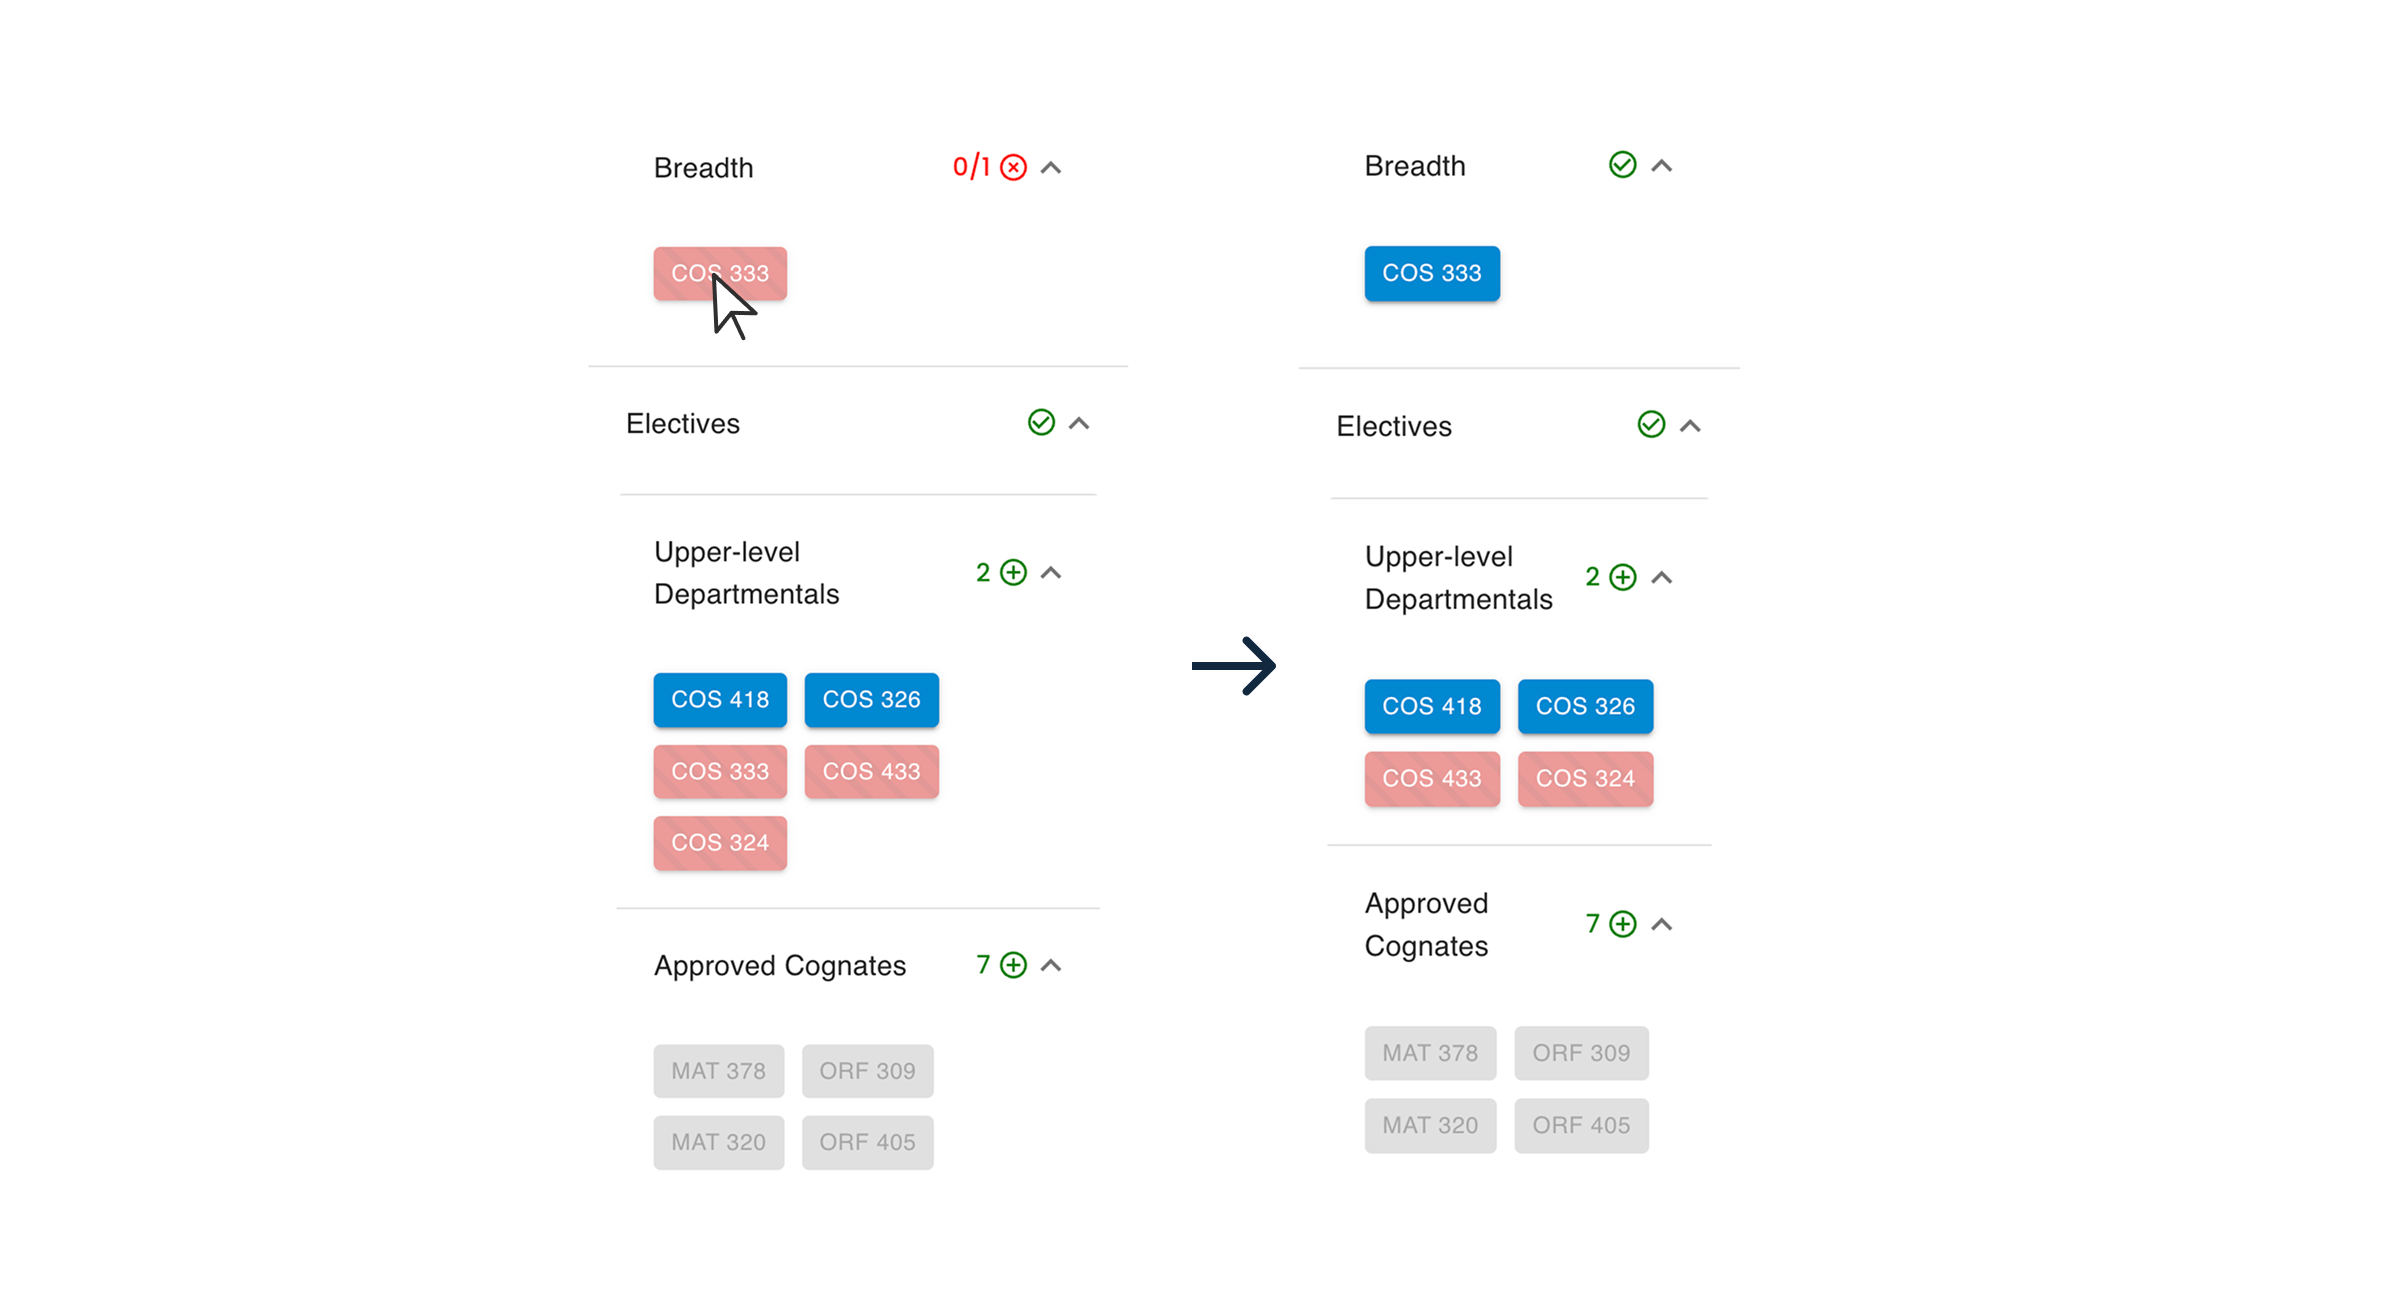
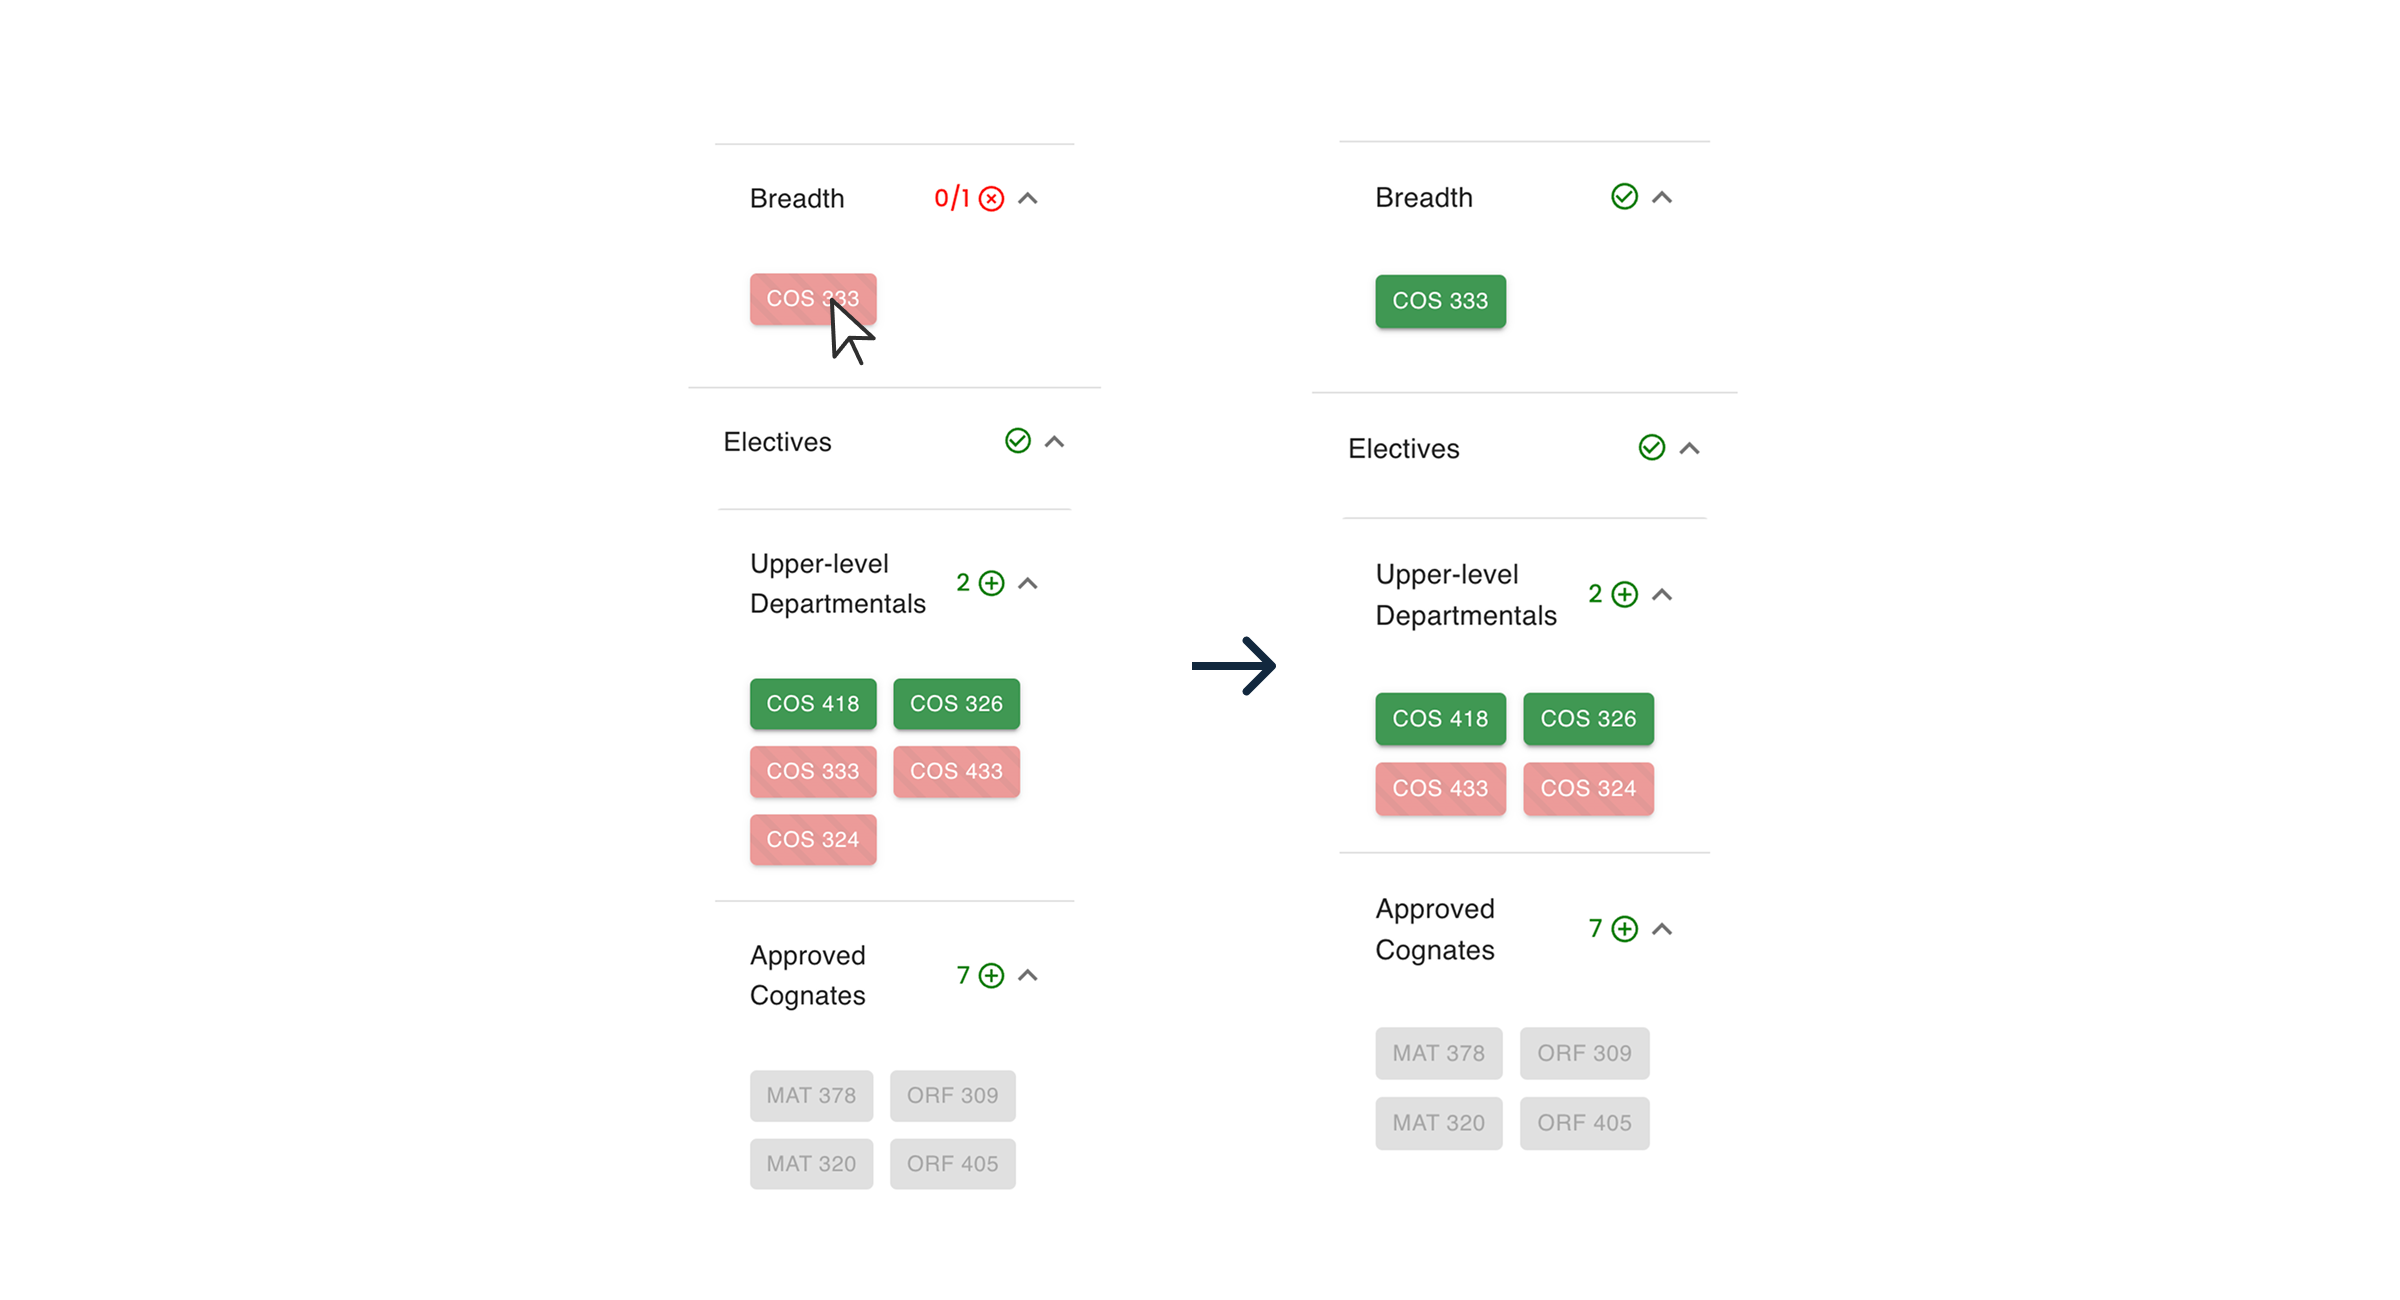
fixed tutorial

diff --git a/frontend/components/Tutorial/Tutorial.tsx b/frontend/components/Tutorial/Tutorial.tsx
@@ -1,8 +1,12 @@
 'use client';
 
-import { useState } from 'react';
+import { useState, useEffect } from 'react';
+
+import { usePathname } from 'next/navigation';
 
 import { Tutorial } from '@/components/Tutorial/TutorialModal';
+import useUserSlice from '@/store/userSlice';
+import { fetchCsrfToken } from '@/utils/csrf';
 
 /**
  * Custom hook that manages the state and logic for the tutorial modal.
@@ -23,6 +27,45 @@ import { Tutorial } from '@/components/Tutorial/TutorialModal';
 export function useTutorialModal() {
 	const [isModalOpen, setIsModalOpen] = useState(false);
 	const [tutorialType, setTutorialType] = useState<string>('dashboard');
+	const profile = useUserSlice((state) => state.profile);
+	const pathname = usePathname();
+
+	const [csrfToken, setCsrfToken] = useState('');
+	useEffect(() => {
+		void (async () => {
+			const token = await fetchCsrfToken();
+			setCsrfToken(token);
+		})();
+	}, []);
+
+	useEffect(() => {
+		if (pathname !== '/dashboard') {
+			return;
+		}
+
+		if (!profile || !profile.netId) {
+			return;
+		}
+
+		async function fetchTutorialStatus() {
+			try {
+				const response = await fetch(`${process.env.BACKEND}/tutorial/get-status/`, {
+					method: 'GET',
+					credentials: 'include',
+					headers: {
+						'X-NetId': profile.netId,
+					},
+				});
+				const data = await response.json();
+				if (data.hasSeenTutorial === false) {
+					setIsModalOpen(true);
+				}
+			} catch (error) {
+				console.error('Error fetching tutorial status:', error);
+			}
+		}
+		void fetchTutorialStatus();
+	}, [profile, pathname]);
 
 	/**
 	 * Opens the tutorial modal with the specified tutorial type.
@@ -34,12 +77,25 @@ export function useTutorialModal() {
 		setIsModalOpen(true);
 	};
 
+	const finishTutorial = async () => {
+		try {
+			await fetch(`${process.env.BACKEND}/tutorial/set-status/`, {
+				method: 'POST',
+				credentials: 'include',
+				headers: {
+					'Content-Type': 'application/json',
+					'X-NetId': profile.netId,
+					'X-CSRFToken': csrfToken,
+				},
+			});
+			setIsModalOpen(false);
+		} catch (error) {
+			console.error('Error updating tutorial status:', error);
+		}
+	};
+
 	const tutorialModal = isModalOpen ? (
-		<Tutorial
-			isOpen={isModalOpen}
-			onClose={() => setIsModalOpen(false)}
-			tutorialType={tutorialType}
-		/>
+		<Tutorial isOpen={isModalOpen} onClose={finishTutorial} tutorialType={tutorialType} />
 	) : null;
 
 	return { openTutorialModal, tutorialModal };

diff --git a/frontend/app/layout.tsx b/frontend/app/layout.tsx
@@ -83,7 +83,7 @@ async function Content({ children }: { children: ReactNode }): Promise<JSX.Eleme
 export default async function RootLayout({ children }: { children: ReactNode }) {
 	return (
 		<html lang='en' className={`bg-white ${poppins.className}`}>
-			{/* TODO: Change this to whatever color we decide (background to match up-scroll) */}
+			{/* Background to match up-scroll */}
 			<body className='antialiased'>
 				{/* Uncomment this to see components re-render. Used for debugging. */}
 				{/* <script src='https://unpkg.com/react-scan/dist/auto.global.js' /> */}

diff --git a/frontend/components/RecursiveDropDown/RecursiveDropdown.tsx b/frontend/components/RecursiveDropDown/RecursiveDropdown.tsx
@@ -451,10 +451,11 @@ const Dropdown: FC<DropdownProps> = ({ academicPlan, profile, csrfToken }) => {
 						<Button
 							key={index}
 							variant='contained'
-							color='info'
 							size='small'
 							disabled={!item['manually_settled'].includes(value[1])}
 							sx={{
+								color: '#ffffff',
+								backgroundColor: '#409853',
 								margin: '5px',
 							}}
 							onClick={() => handleClick(item['crosslistings'], value[1])}

diff --git a/backend/hoagieplan/api/tutorial.py b/backend/hoagieplan/api/tutorial.py
@@ -1,17 +1,33 @@
-import orjson as oj
 from django.http import JsonResponse
 from django.views.decorators.http import require_GET, require_POST
+from hoagieplan.models import CustomUser
 
 
-@require_GET
 def get_status(request):
-    user = request.user
-    return JsonResponse({"hasSeenTutorial": user.has_seen_tutorial})
+    net_id = request.headers.get("X-NetId")
+    print(f"NETID: {net_id}")
+
+    try:
+        user_inst = CustomUser.objects.get(net_id=net_id)
+        print(user_inst.seen_tutorial)
+        return JsonResponse({"hasSeenTutorial": user_inst.seen_tutorial})
+    except CustomUser.DoesNotExist:
+        return JsonResponse({"error": "User not found"}, status=404)
+    except Exception as e:
+        print(f"An error occurred: {e}")
+        return JsonResponse({"error": "An internal error occurred"}, status=500)
 
 
-@require_POST
 def set_status(request):
-    user = oj.loads(request.body)
-    user.has_seen_tutorial = True
-    user.save()
-    return JsonResponse({"message": "Tutorial status updated successfully"})
+    net_id = request.headers.get("X-NetId")
+    if not net_id:
+        return JsonResponse({})
+
+    try:
+        user_inst = CustomUser.objects.get(net_id=net_id)
+        user_inst.seen_tutorial = True
+        user_inst.save()
+        return JsonResponse({"message": "Tutorial status updated successfully"})
+    except Exception as e:
+        logger.error(f"An error occurred while updating tutorial status: {e}")
+        return JsonResponse({"error": "Internal Server Error"}, status=500)
